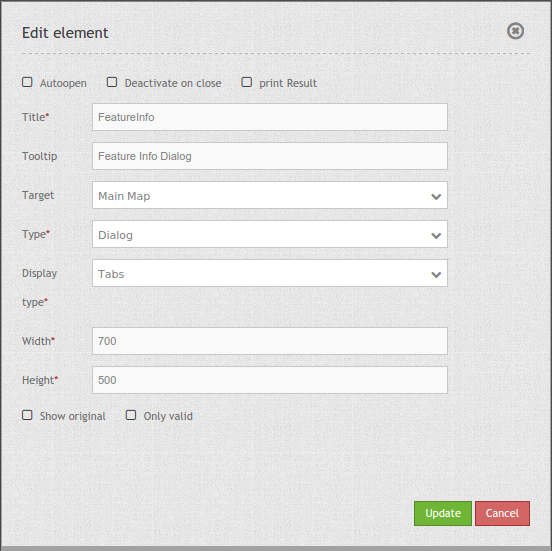
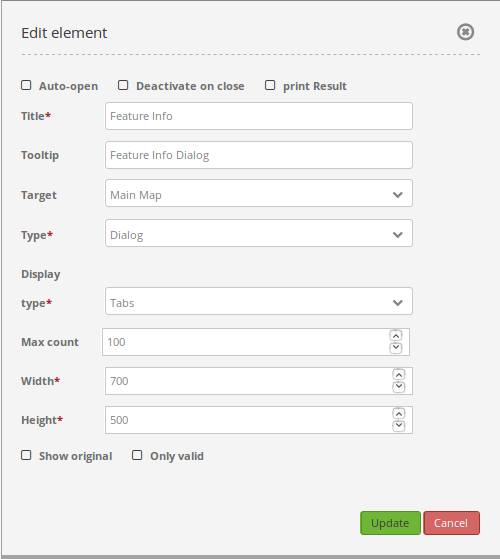
Updated english documentation for FeatureInfo element

diff --git a/en/functions/basic/feature_info.rst b/en/functions/basic/feature_info.rst
@@ -14,14 +14,15 @@ Configuration
 .. image:: ../../../figures/feature_info_configuration.png
      :scale: 80
 
-* **Autoopen:** Enable or disable autoopening of the copyright window, when starting the application, default is disabled.
+* **Auto-open:** Enable or disable autoopening of the copyright window, when starting the application, default is disabled.
 * **Deactivate on close:** true/false to deactivate the functionality after closing the result dialog, default is true.
 * **Print Result:** offer a link to print the result of the featureInfo, default is false.
 * **Title:** Title of the element. It will be indicated next to the button.
 * **Tooltip:** Text used as a tooltip. It will be indacted when hovering with the mouse cursor over the button. It also used as a header in the copyright window.
 * **Target:** Id of Map element to query.
 * **Type:** Type of the information, Element or Dialog. Default and mandatory: Dialog.
-* **Display:** Display of the information, Tabs or Accordion. 
+* **Display type:** Display of the information, Tabs or Accordion.
+* **Max count:** Maximum number of results that should be displayed in the result dialog.
 * **Width/ Height:** width/ height of the dialog in px, default is 700/500.
 * **Show original:** show the css-style of the original feature info result, default is false.
 * **Only valid:** The parameter "Only valid" highly depends on the format of the GetFeatureInfo response. Example UMN: as long as the template defines a correct HTML head and body element (for example by referencing a header and footer file), Mapbender will interpret the result as valid. Are these head and body elements missing, Mapbender will interpret the result as not valid.
@@ -29,9 +30,13 @@ Configuration
   * Please make sure, that the GetFeatureInfo Response is a valid HTML.
   * If you have defined ``text/plan`` as output-format, the switch ``only valid`` must not be activated because ``text/plain`` doesn't return valid HTML.
 
-**Note:** It is possible to load WMS services dynmically into the application Via the information response of a FeatureInfo dialog. The WMS Loader is used for that feature. For further information take a look in the chapter `How to add a WMS by defining a link <../misc/wms_loader.html#how-to-add-a-wms-by-defining-a-link>`_.
+**Note:** It is possible to load WMS services dynmically into the application Via the information response of a FeatureInfo dialog. The WMS Loader is used for that feature. To achieve this you have to integrate the link of the desired WMS into the respective HTML template. For further information take a look in the chapter `How to add a WMS by defining a link <../misc/wms_loader.html#how-to-add-a-wms-by-defining-a-link>`_.
+An example for the use of that functionality can be found at the `application of the german city Gütersloh <http://www.geodaten.guetersloh.de/Bebauungsplaene>`_.
 
+.. image:: ../../../figures/feature_info_guetersloh.png
+     :scale: 80
 
+This example shows, how the respective WMS to a specific development plan is added to the application through the use of the FeatureInfo result dialog.
 
 Display as original and styled
 ------------------------------
@@ -46,7 +51,7 @@ Example original:
 Example styled:
 
 .. image:: ../../../figures/feature_info_not_original.png
-     :scale: 80             
+     :scale: 80
 
 
 
@@ -80,7 +85,7 @@ To have all images and background-colors in your print-out you should check the 
 Button-Configuration
 --------------------
 
-You need a button to show this element. See :ref:`button` for the general configuration options. The following screen shot shows an example for a FeatureInfo Button which is activated the whole time until the user deactivates it. Another possibility is to close the FeatureInfo dialog, if that is configured with the option "deactivate on close".
+You need a button to show this element. See :ref:`button` for the general configuration options. The following screen shot shows an example for a FeatureInfo Button which is activated the whole time until the user deactivates it. Another possibility is to close the FeatureInfo dialog, if that is configured with the option "Deactivate on close".
 
 * **Group:** featureinfo
 * **Deactivate:** deactivate
